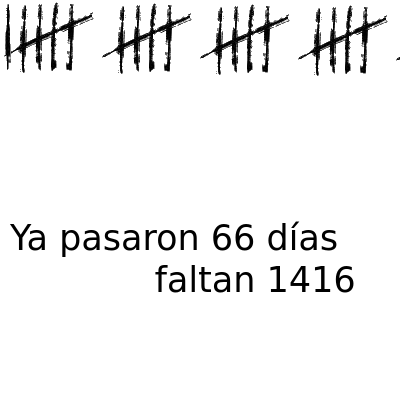
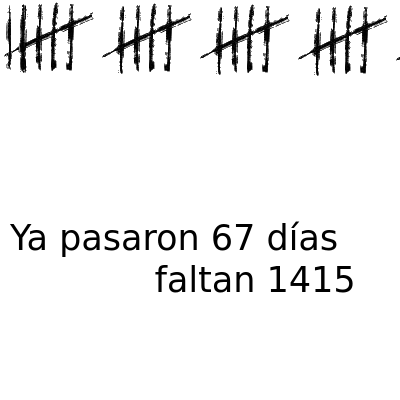
deploy: 28882f26f23b9f53dac6c4991168e610486d0e44

Changed region(s): [[0.0, 0.0, 0.09, 0.18], [0.57, 0.54, 0.63, 0.63], [0.84, 0.66, 0.9, 0.75]]

diff --git a/index.html b/index.html
@@ -3,19 +3,19 @@
   <head>
     <meta charset='utf-8'>
     <meta http-equiv='X-UA-Compatible' content='IE=edge'>
-    <title>Ya pasaron 66 días y faltan 1416</title>
-    <meta name="description" content="Ya pasaron 66 días y faltan 1416">
-    <meta itemprop="name" content="Ya pasaron 66 días y faltan 1416">
-    <meta itemprop="description" content="Ya pasaron 66 días y faltan 1416">
+    <title>Ya pasaron 67 días y faltan 1415</title>
+    <meta name="description" content="Ya pasaron 67 días y faltan 1415">
+    <meta itemprop="name" content="Ya pasaron 67 días y faltan 1415">
+    <meta itemprop="description" content="Ya pasaron 67 días y faltan 1415">
     <meta name="twitter:card" content="summary">
-    <meta name="twitter:title" content="Ya pasaron 66 días y faltan 1416">
-    <meta name="twitter:description" content="Ya pasaron 66 días y faltan 1416">
+    <meta name="twitter:title" content="Ya pasaron 67 días y faltan 1415">
+    <meta name="twitter:description" content="Ya pasaron 67 días y faltan 1415">
     <meta name="twitter:creator" content="@FloriusWasTaken">
     <meta name="twitter:image" content="https://pasaron.meme.ar/capture.png">
-    <meta property="og:title" content="Ya pasaron 66 días y faltan 1416">
-    <meta property="og:description" content="Ya pasaron 66 días y faltan 1416">
+    <meta property="og:title" content="Ya pasaron 67 días y faltan 1415">
+    <meta property="og:description" content="Ya pasaron 67 días y faltan 1415">
     <meta property="og:url" content="https://pasaron.meme.ar">
-    <meta property="og:site_name" content="Ya pasaron 66 días y faltan 1416">
+    <meta property="og:site_name" content="Ya pasaron 67 días y faltan 1415">
     <meta property="og:type" content="website">
     <meta property="og:image" content="https://pasaron.meme.ar/capture.png">
     <meta name="theme-color" content="#dc143c">
@@ -69,18 +69,18 @@
         padding: 0;
       }
     </style>
-    <title>Ya pasaron 66 días y faltan 1416</title>
+    <title>Ya pasaron 67 días y faltan 1415</title>
   </head>
   <body>
     <div id="main">
       <img src="img/5.png"/><img src="img/5.png"/><img src="img/5.png"/><img src="img/5.png"/><img src="img/5.png"/><img src="img/5.png"/><img src="img/5.png"/><img src="img/5.png"/><img src="img/5.png"/><img src="img/5.png"/><img src="img/5.png"/><img src="img/5.png"/><img src="img/5.png"/>
       
-        <img src="img/1.png"/>
+        <img src="img/2.png"/>
       
     </div>
     <footer id="footer">
       <marquee id="marquee" class="is-vertical-align">
-        Ya pasaron 66 días y faltan 1416
+        Ya pasaron 67 días y faltan 1415
       </marquee>
       <ul>
         <li>
